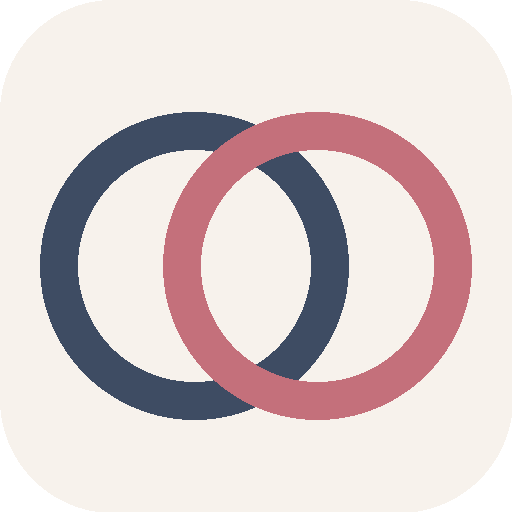
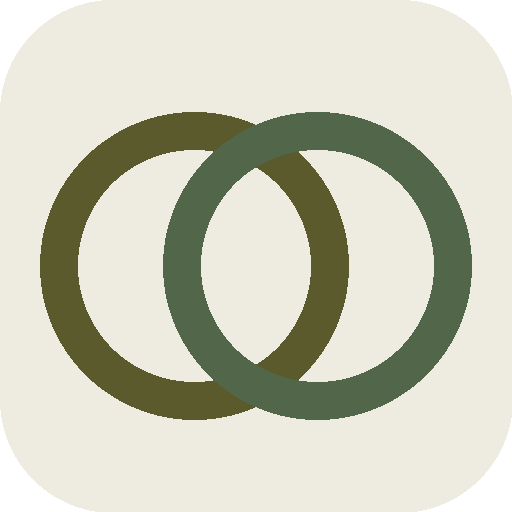
Add files via upload

Changed region(s): [[0.0625, 0.2188, 0.9375, 0.8438]]

diff --git a/index.html b/index.html
@@ -7,26 +7,26 @@
 <link rel="manifest" href="manifest.json">
 <link rel="icon" href="icon-192.png">
 <link rel="apple-touch-icon" href="apple-touch-icon.png">
-<meta name="theme-color" content="#3E4C63">
+<meta name="theme-color" content="#5B5A2C">
 <meta name="apple-mobile-web-app-capable" content="yes">
 <meta name="apple-mobile-web-app-status-bar-style" content="default">
 <meta name="apple-mobile-web-app-title" content="Unidos">
 <style>
   :root{
-    --rose:#C4707B;
-    --rose-soft:#F1DADD;
-    --indigo:#3E4C63;
-    --indigo-soft:#DDE2E9;
-    --gold:#BF9B4E;
-    --gold-soft:#F0E6D0;
-    --sage:#7C8B6F;
-    --sage-soft:#E3E8DE;
-    --paper:#F7F2EC;
-    --card:#FFFFFF;
-    --ink:#2B2620;
-    --ink-dim:#8A8175;
-    --line:#E8E0D5;
-    --danger:#B4483F;
+    --rose:#52664A;
+    --rose-soft:#DEE5D8;
+    --indigo:#5B5A2C;
+    --indigo-soft:#E4E2CD;
+    --gold:#A9853E;
+    --gold-soft:#EFE6CC;
+    --sage:#7C8F92;
+    --sage-soft:#E2E8E8;
+    --paper:#EEECE0;
+    --card:#F8F6EF;
+    --ink:#262420;
+    --ink-dim:#948C78;
+    --line:#DED8C6;
+    --danger:#A65A48;
     --radius:18px;
     --radius-sm:12px;
   }

diff --git a/sw.js b/sw.js
@@ -1,4 +1,4 @@
-const CACHE = "unidos-v2";
+const CACHE = "unidos-v3";
 const ASSETS = ["./", "./index.html", "./manifest.json", "./icon-192.png", "./icon-512.png"];
 
 self.addEventListener("install", (e) => {